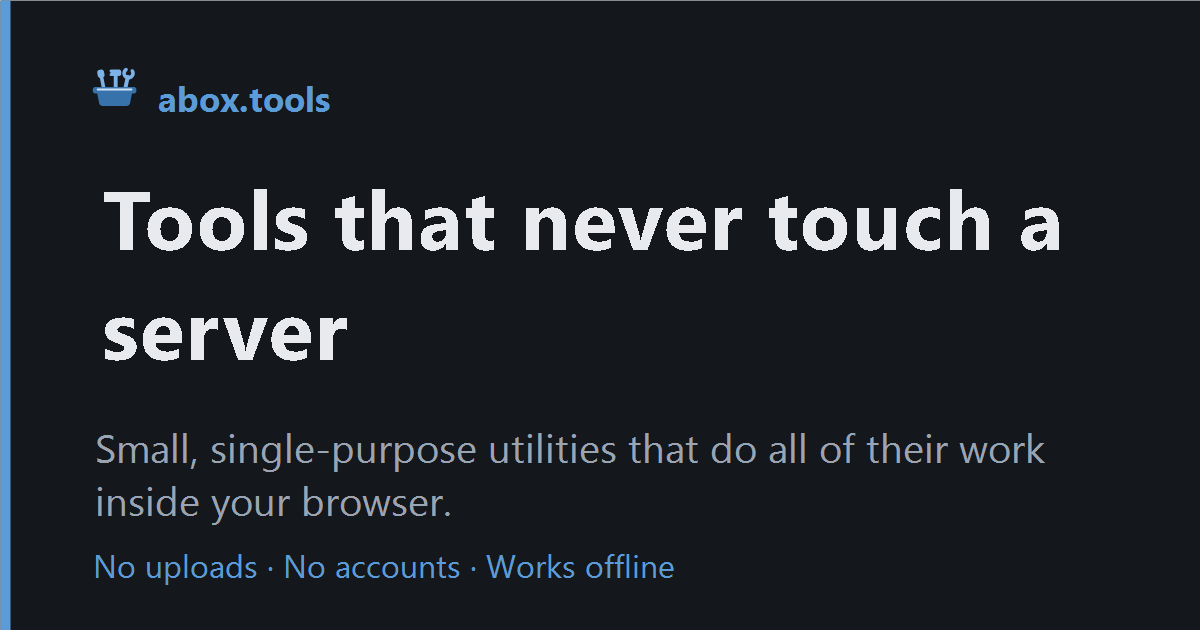
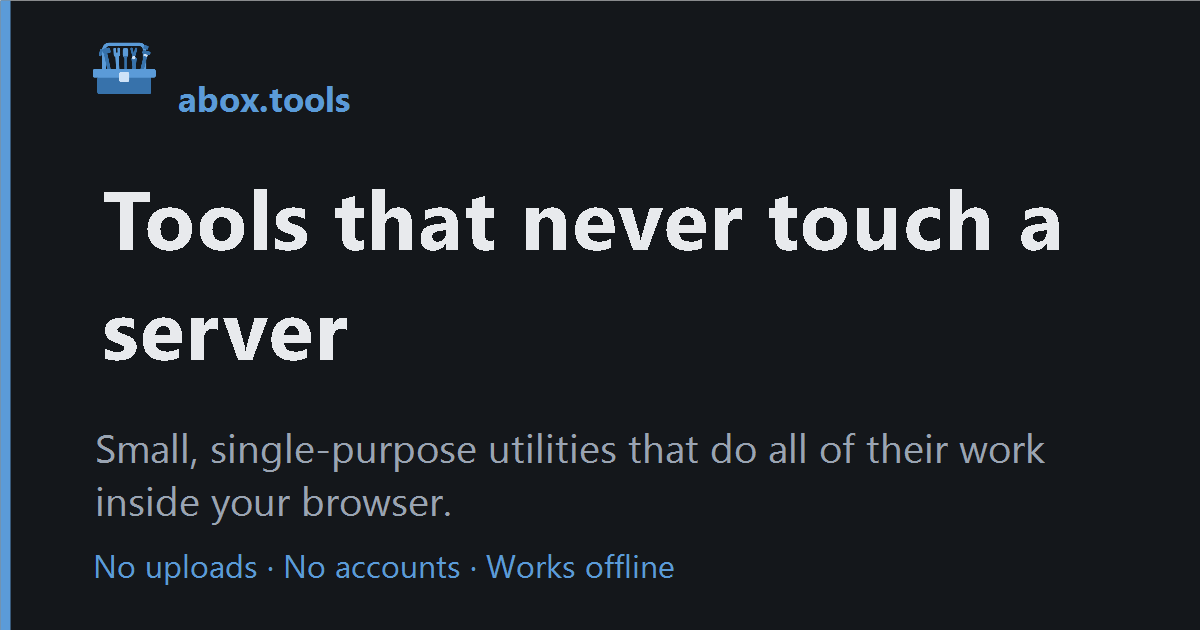
Redraw the mark as a full tool box, and stop drawing it twice
The mark was one screwdriver, one hammer and one wrench in a shallow box.
This is the picture that was actually wanted: the lid up behind the tools,
five of them fanned out in front of it - claw hammer, open-end wrench,
screwdriver, pliers, adjustable wrench - and a latch on the front of the
box. The grid went from 32 to 64, because five tools need the room to stay
apart from each other.

og-image.ps1 no longer redraws any of that by hand. System.Drawing cannot
read SVG, which is why the old mark existed twice: once in logo.svg and
once in GraphicsPath calls that had to be kept in step with it. Twenty-odd
shapes is past the point where that stays honest, so the script now inlines
logo.svg into a scrap of HTML, forces the palette it wants on top of it,
and has a headless Edge screenshot the result. Edge ships with Windows, so
the "nothing to install" promise still holds; Chrome is checked as a
fallback.

The hub page keeps its emoji. The mark is the favicon, the iOS icon, both
share cards, and the way back to the hub from a tool page.

Changed region(s): [[0.0617, 0.0603, 0.3083, 0.181]]

diff --git a/images-to-video/index.html b/images-to-video/index.html
@@ -690,21 +690,37 @@
       own stylesheet.
     -->
     <a class="home-link" href="../">
-      <svg class="site-logo" viewBox="0 0 32 32" aria-hidden="true" focusable="false">
-        <g transform="rotate(-11 9.3 17)">
-          <rect class="logo-tool" x="8.2" y="9.6" width="2.2" height="8.6" rx="0.9"/>
-          <rect class="logo-tool" x="7.2" y="5.4" width="4.2" height="5" rx="1.5"/>
+      <svg class="site-logo" viewBox="0 0 64 64" aria-hidden="true" focusable="false">
+        <path class="logo-lid" d="M14 31V13.5A4.5 4.5 0 0 1 18.5 9h27a4.5 4.5 0 0 1 4.5 4.5V31"
+              fill="none" stroke-width="3.2" stroke-linejoin="round"/>
+        <g transform="rotate(-12 18 30)">
+          <rect class="logo-tool" x="16.6" y="17" width="3.2" height="17" rx="1.4"/>
+          <rect class="logo-tool" x="16.2" y="12.2" width="6.8" height="5" rx="1.5"/>
+          <rect class="logo-tool" x="14" y="12.6" width="2.6" height="6.6" rx="1.2" transform="rotate(26 16.2 13)"/>
         </g>
-        <path class="logo-tool" d="M13.6 5.4h5.2a1.3 1.3 0 0 1 1.3 1.3v1.5a1.3 1.3 0 0 1-1.3 1.3h-5.2a1 1 0 0 1-1-1l.7-1-.7-1a1 1 0 0 1 1-1z"/>
-        <rect class="logo-tool" x="15.5" y="8.8" width="2.4" height="9.4" rx="1"/>
-        <g transform="rotate(12 22.6 17)">
-          <rect class="logo-tool" x="21.4" y="8.6" width="2.4" height="9.6" rx="1"/>
-          <path class="logo-jaws" d="M20.65 5.6A2.75 2.75 0 1 0 24.55 5.6"
-                fill="none" stroke-width="2.2" stroke-linecap="round"/>
+        <g transform="rotate(-3 26 30)">
+          <rect class="logo-tool-alt" x="24.6" y="17" width="3.1" height="17" rx="1.4"/>
+          <rect class="logo-tool-alt" x="23.2" y="12" width="2.3" height="6.5" rx="1.1"/>
+          <rect class="logo-tool-alt" x="26.8" y="12" width="2.3" height="6.5" rx="1.1"/>
+          <rect class="logo-tool-alt" x="23.2" y="16.2" width="5.9" height="3.6" rx="1.5"/>
         </g>
-        <path class="logo-box" d="M5.2 19.8h21.6l-1.2 6.3a2.2 2.2 0 0 1-2.2 1.8H8.6a2.2 2.2 0 0 1-2.2-1.8z"/>
-        <rect class="logo-box" x="2.6" y="16.2" width="26.8" height="4" rx="1.5"/>
-        <rect class="logo-rim" x="5" y="17.1" width="22" height="1.3" rx="0.65"/>
+        <rect class="logo-tool-alt" x="30.6" y="12" width="5" height="8.4" rx="2.2"/>
+        <rect class="logo-tool" x="31.5" y="19.2" width="3.2" height="2.2" rx="0.7"/>
+        <rect class="logo-tool" x="32.1" y="20.5" width="2.1" height="13.5" rx="1"/>
+        <path class="logo-tool" d="M39.4 20.4 37.9 13a1.15 1.15 0 0 1 2.25-.45l1.15 7.6z" transform="rotate(-4 40.5 21)"/>
+        <path class="logo-tool" d="M41.6 20.4 43.1 13a1.15 1.15 0 0 0-2.25-.45l-1.15 7.6z" transform="rotate(4 40.5 21)"/>
+        <rect class="logo-tool" x="38.2" y="20.5" width="2.9" height="13.5" rx="1.3" transform="rotate(-8 40.5 21)"/>
+        <rect class="logo-tool" x="40.4" y="20.5" width="2.9" height="13.5" rx="1.3" transform="rotate(8 40.5 21)"/>
+        <circle class="logo-latch" cx="40.5" cy="20.8" r="1.5"/>
+        <g transform="rotate(14 48 30)">
+          <rect class="logo-tool" x="46.6" y="17.5" width="3.2" height="16.5" rx="1.4"/>
+          <rect class="logo-tool" x="44.6" y="14.2" width="7.4" height="3.4" rx="1.3"/>
+          <rect class="logo-tool" x="44.6" y="9.6" width="4.4" height="3.6" rx="1.1"/>
+          <rect class="logo-latch" x="46.4" y="17.4" width="3.6" height="1.9" rx="0.6"/>
+        </g>
+        <rect class="logo-box" x="8" y="38" width="48" height="15" rx="1.6"/>
+        <rect class="logo-band" x="4" y="31" width="56" height="7.5" rx="1.6"/>
+        <rect class="logo-latch" x="27.5" y="33.5" width="9" height="9" rx="1.8"/>
       </svg>
       All tools
     </a>

diff --git a/images-to-video/styles.css b/images-to-video/styles.css
@@ -1007,16 +1007,18 @@ footer {
 .home-link { white-space: nowrap; }
 
 .site-logo {
-  width: 1.1em;
-  height: 1.1em;
-  vertical-align: -0.25em;
+  width: 1.35em;
+  height: 1.35em;
+  vertical-align: -0.35em;
   margin-right: 0.15em;
 }
 
-.logo-tool { fill: var(--accent); }
-.logo-jaws { stroke: var(--accent); }
+.logo-lid { stroke: var(--accent); }
+.logo-tool { fill: var(--accent-deep); }
+.logo-tool-alt { fill: var(--accent); }
 .logo-box { fill: var(--accent-deep); }
-.logo-rim { fill: var(--accent-pale); }
+.logo-band { fill: var(--accent); }
+.logo-latch { fill: var(--accent-pale); }
 
 
 /* ------------------------------------------------------------- ad placement */

diff --git a/README.md b/README.md
@@ -69,7 +69,7 @@ mounted — every path in it is relative, so it works at the domain root, at
   site.css
   logo.svg               the site mark; also the favicon, and inlined in the pages
   icon-180.png           the same mark drawn as a PNG, for iOS home screens
-  og-image.ps1           redraws the share cards and that icon
+  og-image.ps1           renders the share cards and that icon from logo.svg
   _headers               security headers (Cloudflare Pages / Netlify only)
   CNAME                  the custom domain, read by GitHub Pages
   .nojekyll              stops GitHub Pages running the content through Jekyll
